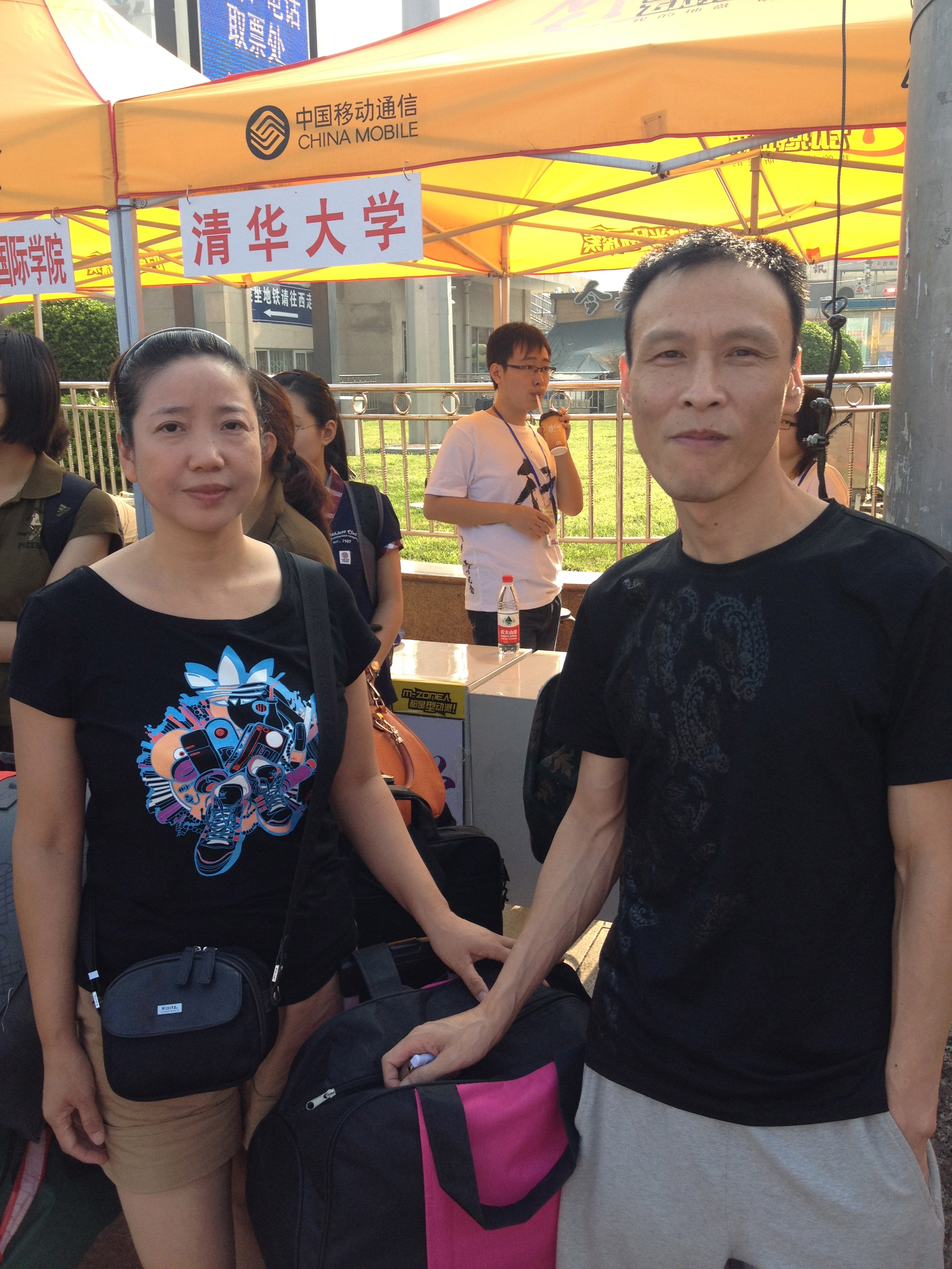
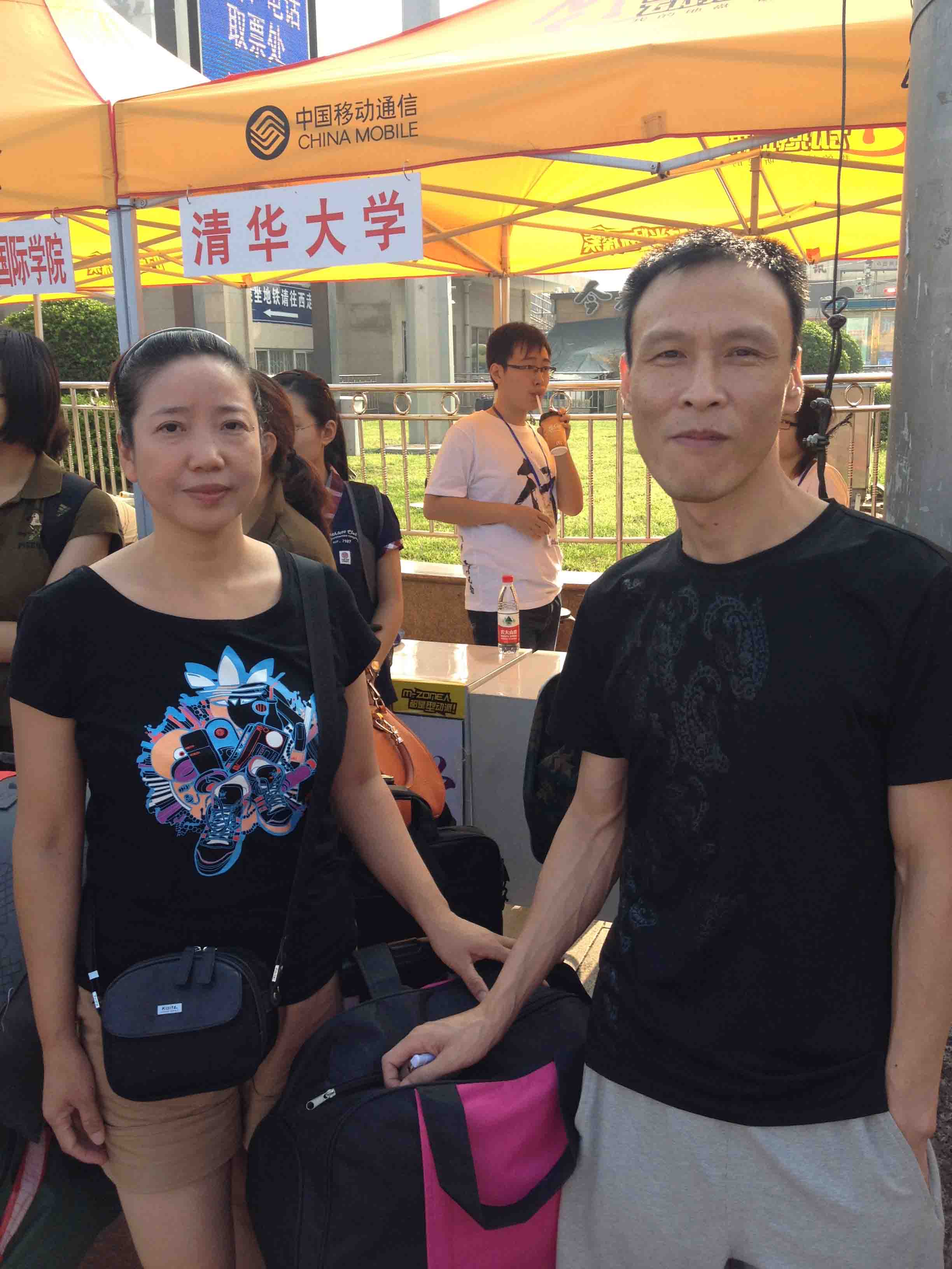
1

diff --git a/index.html b/index.html
@@ -73,7 +73,7 @@
 <br>
 19. 刚才又整理完了桌面，清理掉了所有无用的文件。猛然发现现在的桌面和上学期几乎是一模一样的，除了壁纸已经从萌妹子变成DotA2的幻影刺客。还记得我那天给你说的那句话吗：You're such a cool assassin, but don't change yourself。不知道当时的你是怎么理解的，幻影刺客是我DotA2最喜欢的一个英雄，刺杀就是幻影刺客的信仰，从未失误，都是一击毙命。你当时只是一瞬间就刺痛了我的心，但是不知道为什么我就是喜欢上了你这点。当时喜欢上你也是因为你的独立你的与众不同。壁纸之外还有几个文件仿佛半年都没动过，那是你留在我桌面上的。第一个好像是你们当时马杯篮球赛半决赛对阵自动化前一起改的头像，第二个第三个是你当时在我电脑上写物化小论文时截的图：生物体中部分氧化——————还原体系的标准氧化还原电势，第四个第五个就是你当时交物化小论文留下的文件。半年了，其他的文件添了又删，删了又添，但这五个文件一直都在。
 <br>
-<img src="img/img2.png" height="600">
+<img src="img/img2.jpg" height="600">
 <!--
 <br>
 <br>
